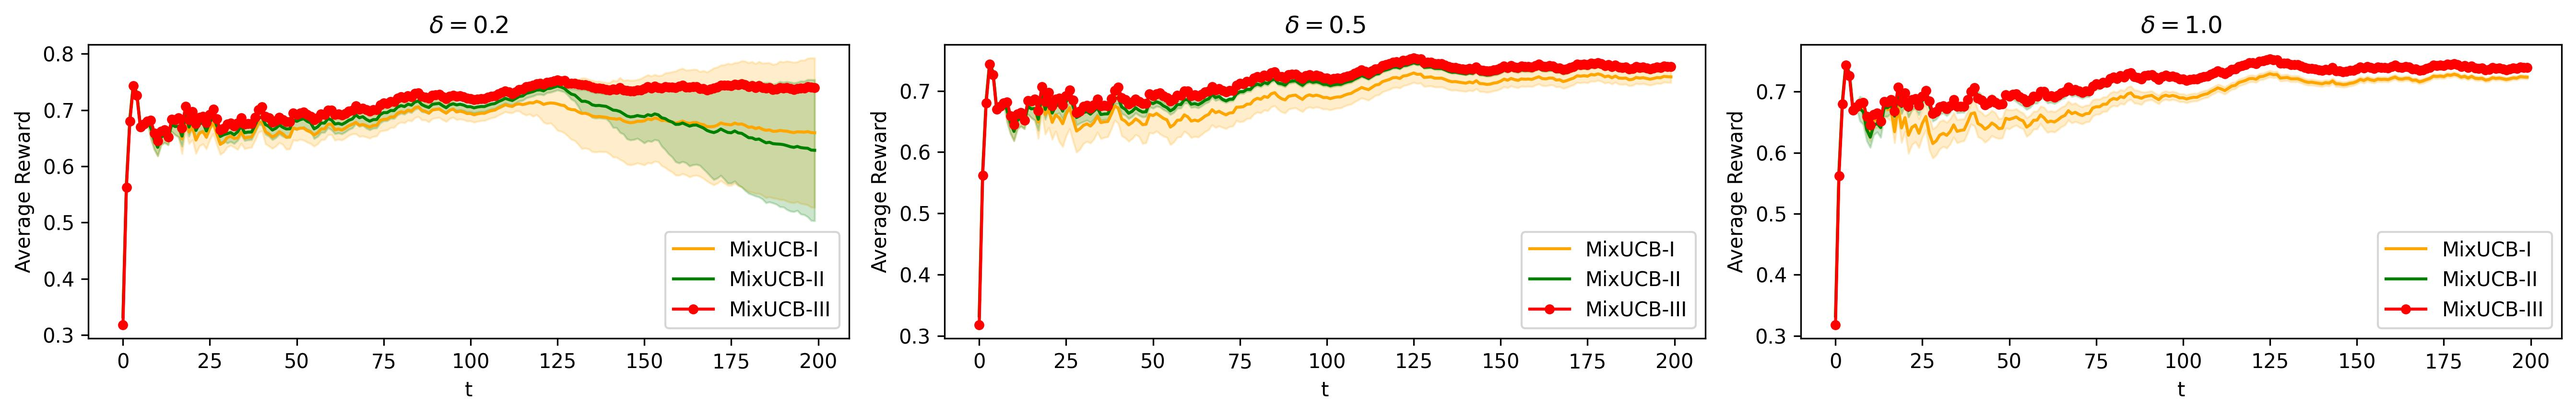
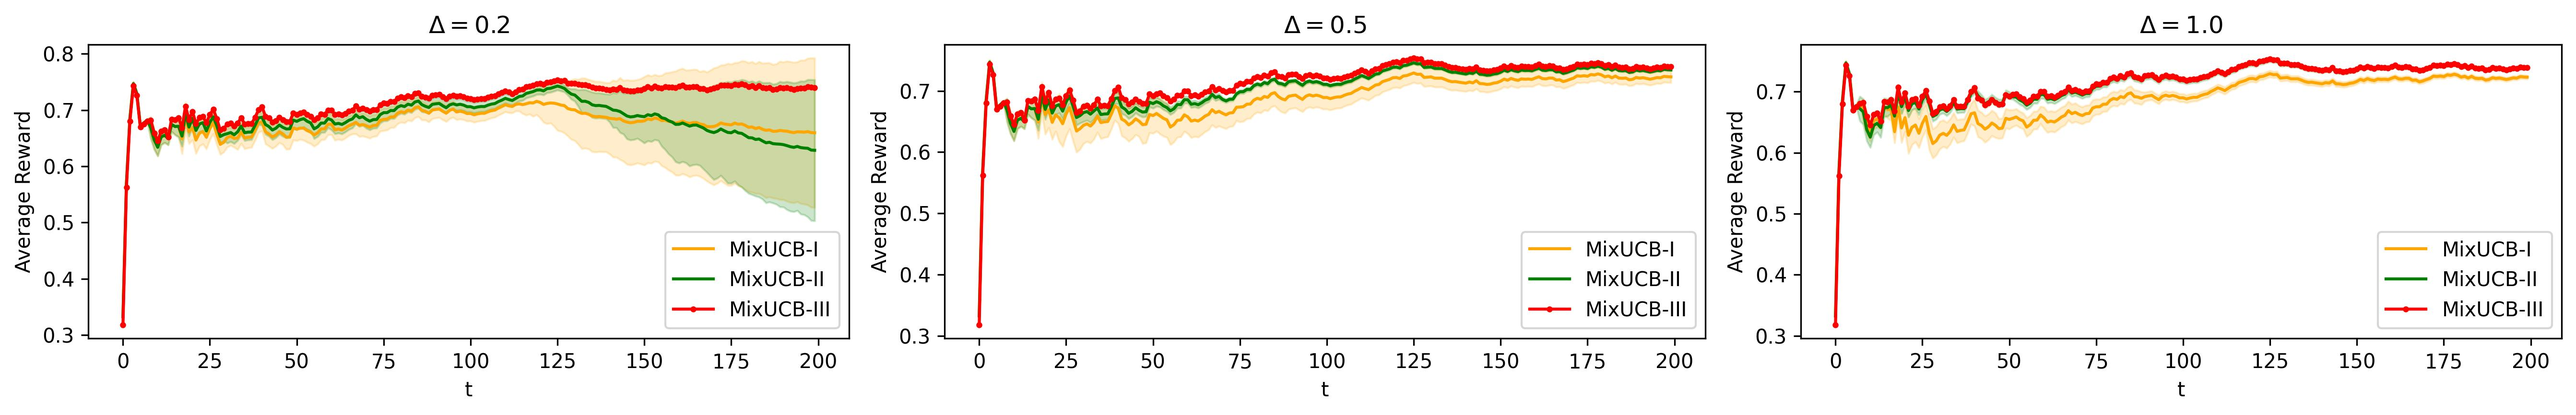
second round

diff --git a/plot_tools.py b/plot_tools.py
@@ -8,6 +8,8 @@ import numpy as np
 # fix colors for I, II, and III: orange, green, red
 # fix colors for LinUCB, NoisyExpert, PerfectExpert: blue, purple, brown
 color_map = {'I': 'orange', 'II': 'green', 'III': 'red', 'LinUCB': 'blue', 'NoisyExpert': 'purple', 'PerfectExpert': 'brown'}
+delta_values = [0.2, 0.5, 0.75, 1.0]
+
 
 def plot_average_rewards(axs, cumulative_rewards, cumulative_awards_std=None, params=None, ylabel='Average Reward'):
     """Plot average rewards in a 1 by m grid for different parameters."""
@@ -385,7 +387,7 @@ def plot_three_mixucbs(Figure_dir='Figures', result_postfix="", result_root=''):
     TotalQ_mixucbIII_std = []
 
     # delta_values = [0.2, 0.5, 1.,2., 5.]
-    delta_values = [0.2, 0.5, 1.]
+    # delta_values = [0.2, 0.5, 1.]
     for each_delta in delta_values:
         mixucbI_pkls = os.listdir(os.path.join(result_root,f'mixucbI_results{result_postfix}','{}'.format(each_delta)))
         mixucbI_list = []
@@ -589,8 +591,11 @@ if __name__ == '__main__':
     # result_root="syntheticalpha0.75_20241010_4"
 
     # Back to SPANet
-    mixucb_postfix = "_temp5.0_alpha0.1_0"  # beta=5000
-    result_root = "spanettemp5.0_20241010"
+    # mixucb_postfix = "_temp5.0_alpha0.1_0"  # beta=5000
+    # result_root = "spanettemp5.0_20241010"
+
+    mixucb_postfix = "_temp5.0_alpha0.1_0"  # beta=500
+    result_root = "spanettemp5.0_20241010_2"
 
     Figure_dir = f'Figures/{result_root}'
 
@@ -601,5 +606,5 @@ if __name__ == '__main__':
     # for delta in [0.2, 0.5, 1.]:
     # for delta in [0.2, 0.5, 0.75, 1.]:
     # for delta in [0.2, 0.5]:
-    for delta in [0.2, 0.5, 1.]:
+    for delta in delta_values:
         plot_six_baselines(Figure_dir=f"{Figure_dir}_delta{delta}", mixucb_result_postfix=mixucb_postfix,delta=delta,result_root=result_root)

diff --git a/tune_mixUCB.py b/tune_mixUCB.py
@@ -45,11 +45,13 @@ from argparse import ArgumentParser
 
 # 10/9: switching back to original dataset.
 data_file = "simulation_data_spanet.pkl"
-beta_MixUCBI_values = [5000,6000,7000,8000,9000,10000]
+# beta_MixUCBI_values = [5000,6000,7000,8000,9000,10000]
+beta_MixUCBI_values = [500,1000,2000,3000,4000]
 lambdas = [1]
 generator = list(itertools.product(lambdas, beta_MixUCBI_values))
 T = 200
-deltas = [0.2,0.5,1.0]
+# deltas = [0.2,0.5,1.0]
+deltas = [0.75]
 
 def main(temperature):
     # Fixed parameters: for experiments in 10/6 and before.
